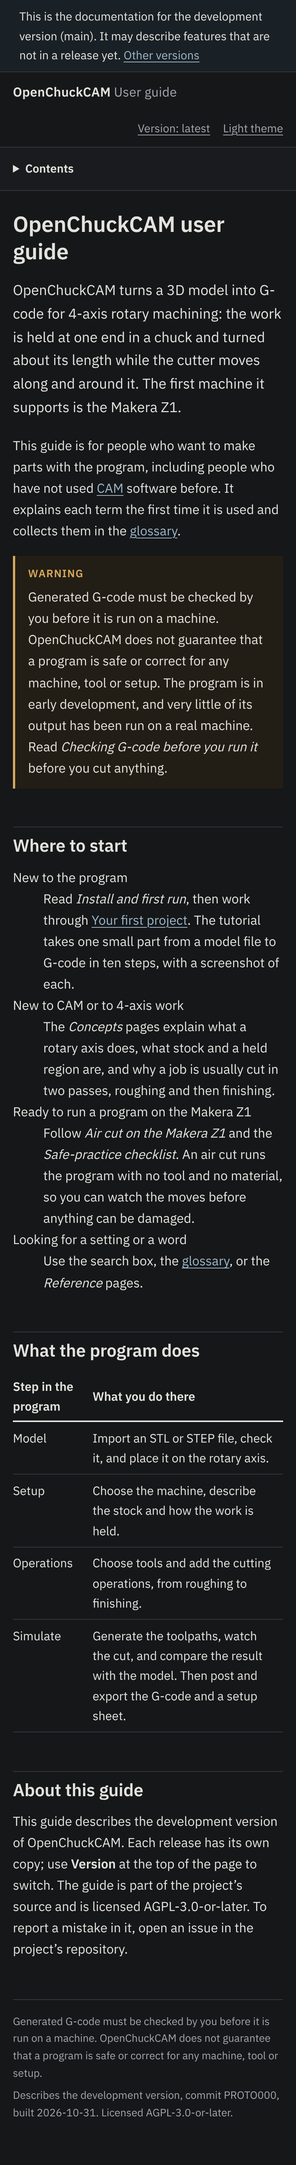
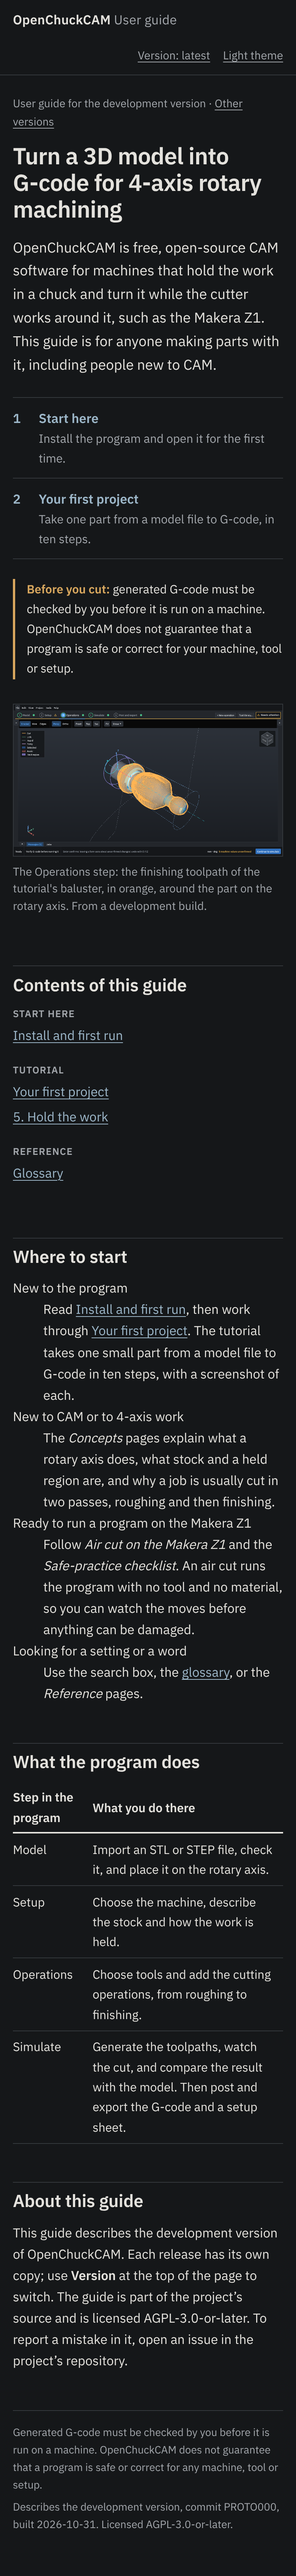
Lane DOCSITE: a proposed home page hero in both prototypes (throwaway, never merged)
Same design in each: version line, one plain headline, who the guide is for,
two routes as a ruled list, the G-code notice and a real screenshot of the
tutorial's baluster. mdBook: an HTML block and three template lines; Zola:
a dedicated landing template. Costs compared in proto/COMPARISON.md.

Claude-Session: https://claude.ai/code/session_017vEinzeL1soyBucF3aWsfy

Changed region(s): [[0.0308, 0.0, 0.9538, 0.9947], [0.7692, 0.4041, 0.8308, 0.4352], [0.6769, 0.4041, 0.7385, 0.4352]]

diff --git a/proto/shared/style.css b/proto/shared/style.css
@@ -240,3 +240,50 @@ blockquote.markdown-alert-note::before, blockquote.markdown-alert-warning::befor
 }
 blockquote.markdown-alert-warning::before { content: "Warning"; color: var(--warn); }
 blockquote.markdown-alert-note > :last-child, blockquote.markdown-alert-warning > :last-child { margin-bottom: 0; }
+
+/* ---------- Home page hero (both prototypes) ----------
+ * One plain statement, who it is for, two routes, the version, the G-code notice, and a real screenshot.
+ * No gradient, no buttons: the routes are a ruled list of links. */
+.hero { display: grid; grid-template-columns: minmax(0, 5fr) minmax(0, 7fr); gap: 2.5rem; align-items: start;
+  padding: 0 0 1rem; margin: 0 0 1.5rem; }
+.nowrap { white-space: nowrap; }
+.hero-text { min-width: 0; }
+.hero-meta { font-size: 0.85rem; color: var(--muted); margin: 0 0 0.9rem; }
+.hero-meta a { color: var(--muted); }
+.hero h1 { font-size: 2.35rem; line-height: 1.15; letter-spacing: -0.015em; margin: 0 0 1rem; border: 0; padding: 0; }
+.hero-lead { font-size: 1.1rem; margin: 0 0 1.6rem; }
+.routes { list-style: none; padding: 0 !important; margin: 0 0 1.5rem; border-top: 1px solid var(--rule); counter-reset: none; }
+.routes > li { border-bottom: 1px solid var(--rule); margin: 0 !important; padding: 0; }
+.routes > li::before { content: none !important; }
+.routes a { display: grid; grid-template-columns: 2rem 1fr; padding: 0.75rem 0; text-decoration: none; color: var(--text); }
+.routes a:hover .route-title { text-decoration: underline; }
+.route-num { font-weight: 600; color: var(--accent); font-variant-numeric: tabular-nums; }
+.route-title { font-weight: 600; color: var(--accent); }
+.route-text { grid-column: 2; color: var(--muted); font-size: 0.92rem; }
+.hero-notice { border-left: 3px solid var(--warn); padding: 0.1rem 0 0.1rem 0.9rem; font-size: 0.92rem; margin: 0; }
+.hero-notice strong { color: var(--warn); }
+.hero-figure { margin: 0.4rem 0 0; }
+.hero-figure img { width: 100%; }
+/* mdBook: the hero sits in the content column beside the contents, so the column widens on the home page. */
+.home .content > main { max-width: 74rem; }
+.home .content > main > #mdbook-content > :not(.hero) { max-width: var(--measure); }
+/* Zola: a landing page without the sidebar; the hero spans the page and the rest keeps the measure. */
+.landing { max-width: 76rem; margin: 0 auto; padding: 2.5rem 2.5rem 4rem; }
+.landing .body { max-width: var(--measure); }
+.landing .contents-overview { columns: 2 16rem; column-gap: 2.5rem; margin: 0 0 2rem; padding: 0; list-style: none; }
+.landing .contents-overview > li { break-inside: avoid; margin: 0 0 1.2rem; }
+.landing .contents-overview .nav-part { display: block; font-size: 0.75rem; font-weight: 600; letter-spacing: 0.06em;
+  text-transform: uppercase; color: var(--muted); margin-bottom: 0.25rem; }
+.landing .contents-overview ul { list-style: none; padding: 0; margin: 0; }
+@media (max-width: 1100px) {
+  .hero { grid-template-columns: 1fr; gap: 1.5rem; }
+  .hero-figure { order: 2; }
+}
+@media (max-width: 900px) {
+  .hero h1 { font-size: 1.8rem; }
+  .landing { padding: 1.5rem 1rem 3rem; }
+}
+@media print {
+  .hero { display: block; border: 0; }
+  .routes a { display: block; }
+}

diff --git a/proto/zola/templates/index.html b/proto/zola/templates/index.html
@@ -1,3 +1,47 @@
 {% extends "base.html" %}
-{% block content %}<h1>{{ section.title }}</h1>
-{{ section.content | safe }}{% endblock %}
+{#- The landing page: no sidebar; the hero spans the page, then a contents overview, then the page text.
+    The hero's words live in content/_index.md ([extra]), not here. -#}
+{% block banner %}{% endblock banner %}
+{% block layout %}
+<main id="content" class="landing">
+  <section class="hero" aria-labelledby="hero-title">
+    <div class="hero-text">
+      <p class="hero-meta">User guide for the development version · <a href="{{ get_url(path='versions.html') }}">Other versions</a></p>
+      <h1 id="hero-title">{{ section.extra.headline | safe }}</h1>
+      <p class="hero-lead">{{ section.extra.lead }}</p>
+      <ol class="routes">
+        {%- for r in section.extra.routes %}
+        <li><a href="{{ get_url(path=r.path) }}"><span class="route-num">{{ loop.index }}</span><span class="route-title">{{ r.title }}</span><span class="route-text">{{ r.text }}</span></a></li>
+        {%- endfor %}
+      </ol>
+      <p class="hero-notice"><strong>Before you cut:</strong> generated G-code must be checked by you before it is run on a machine. OpenChuckCAM does not guarantee that a program is safe or correct for your machine, tool or setup.</p>
+    </div>
+    <figure class="hero-figure">
+      <img src="{{ get_url(path=section.extra.hero_image) }}" width="1366" height="768" alt="{{ section.extra.hero_alt }}">
+      <figcaption>{{ section.extra.hero_caption }}</figcaption>
+    </figure>
+  </section>
+
+  <h2 class="visually-plain">Contents of this guide</h2>
+  <ul class="contents-overview">
+    {%- for s in section.subsections %}
+    {%- set sub = get_section(path=s) %}
+    <li><span class="nav-part">{{ sub.extra.part | default(value=sub.title) }}</span>
+      <ul>
+        {% if sub.title != sub.extra.part %}<li><a href="{{ sub.permalink }}">{{ sub.title }}</a></li>{% endif %}
+        {%- for p in sub.pages %}<li><a href="{{ p.permalink }}">{{ p.title }}</a></li>{% endfor %}
+      </ul>
+    </li>
+    {%- endfor %}
+    {%- for p in section.pages %}
+    <li><span class="nav-part">{{ p.extra.part | default(value="More") }}</span><ul><li><a href="{{ p.permalink }}">{{ p.title }}</a></li></ul></li>
+    {%- endfor %}
+  </ul>
+
+  <div class="body">{{ section.content | safe }}</div>
+  <footer class="site-footer">
+    <p>Generated G-code must be checked by you before it is run on a machine. OpenChuckCAM does not guarantee that a program is safe or correct for any machine, tool or setup.</p>
+    <p>Describes the development version, commit PROTO000, built 2026-10-31. Licensed AGPL-3.0-or-later.</p>
+  </footer>
+</main>
+{% endblock layout %}

diff --git a/proto/zola/templates/base.html b/proto/zola/templates/base.html
@@ -16,7 +16,7 @@
 </head>
 <body>
   <a class="skip" href="#content">Skip to the content</a>
-  <div class="banner" role="note">This is the documentation for the development version (main). It may describe features that are not in a release yet. <a href="{{ get_url(path='versions.html') }}">Other versions</a></div>
+  {% block banner %}<div class="banner" role="note">This is the documentation for the development version (main). It may describe features that are not in a release yet. <a href="{{ get_url(path='versions.html') }}">Other versions</a></div>{% endblock banner %}
   <header class="site-header">
     <a class="site-title" href="{{ get_url(path='@/_index.md') }}">OpenChuckCAM <span>User guide</span></a>
     <div class="tools">
@@ -24,6 +24,7 @@
       <button class="theme-toggle" type="button" hidden>Dark theme</button>
     </div>
   </header>
+  {% block layout %}
   <div class="layout">
     <nav class="sidebar" aria-label="Contents">
       <details open>
@@ -67,8 +68,9 @@
       </footer>
     </div>
   </div>
+  {% endblock layout %}
   <script>
-    if (matchMedia('(max-width: 900px)').matches) document.querySelector('.sidebar details').open = false;
+    var d = document.querySelector('.sidebar details'); if (d && matchMedia('(max-width: 900px)').matches) d.open = false;
     (function () {
       var b = document.querySelector('.theme-toggle'), root = document.documentElement;
       function dark() { return root.dataset.theme ? root.dataset.theme === 'dark' : matchMedia('(prefers-color-scheme: dark)').matches; }

diff --git a/proto/COMPARISON.md b/proto/COMPARISON.md
@@ -33,10 +33,31 @@ Zola 0.23.0 (5 August 2026) moved to a new major version of its template languag
 
 | | mdBook | Zola |
 | --- | --- | --- |
-| Stylesheet (shared) | 242 lines | the same file |
-| Page templates | `theme/index.hbs`, 101 lines (replaces mdBook's 367-line default) | 6 templates, 115 lines in all |
+| Stylesheet (shared) | 289 lines, of which 46 are the home page hero | the same file |
+| Page templates | `theme/index.hbs`, 101 lines (replaces mdBook's 367-line default) | 6 templates, 161 lines in all (115 before the landing page) |
 | Extra code we keep | `fixnav.py`, 38 lines: mdBook writes the contents list with links relative to the site root and marks no current page (its own theme fixes this in JavaScript), so this post-build step makes it work without JavaScript. Search reuses mdBook's own script, adapted in 6 lines. | `static-search.js`, 18 lines: Zola builds the search index but gives no search box (a full one, with highlighting, would be about 80 lines). The elasticlunr script must be supplied; here it is copied from mdBook's output. |
 | Default files we cannot switch off | mdBook still writes its own `book.js`, highlight and theme files, unused (about 0.2 MB). Harmless. | Zola writes `robots.txt` and `sitemap.xml` (wanted anyway). |
+
+## The home page hero (added at the owner's request)
+
+The owner asked for a proposed hero section on the home page in each tool, with the same design intent. Both are built and in `screenshots/` (`*-home-*`).
+
+**Design.** A two-column band at desktop width, stacked on a phone:
+- left: a small line naming the guide's version, with a link to the other versions (the version switch); one plain headline; one paragraph saying what the program is and who the guide is for; two routes, *Start here* and *Your first project*, as a ruled, numbered list of links (not buttons); the G-code notice (NFR-12), set quietly with an ochre rule and the label "Before you cut";
+- right: a real screenshot of the application, the finishing toolpath of the tutorial's baluster (lane DOCSUSER's `hero-1-toolpaths.png`), with a caption saying it is from a development build.
+
+No gradient, no buttons, no icons, no feature cards, no marketing words. The same CSS serves both tools (46 lines added to the shared stylesheet).
+
+| | mdBook | Zola |
+| --- | --- | --- |
+| How it is done | The hero is a block of HTML at the top of `src/index.md` (16 lines). mdBook does not parse Markdown inside it, so the hero's words are HTML in the Markdown file. Template change: 3 lines in `index.hbs` (a `home` class on the body when `is_index`, and no development banner on the home page, since the hero names the version). | A dedicated landing template, `templates/index.html` (47 lines). The hero's words live in the front matter of `content/_index.md` (`[extra]`: headline, lead, routes, image, alt text, caption), so the template holds layout only. |
+| Page around it | The usual page: the contents sidebar stays on the left, so the hero shares the width with it. | A page of its own: no sidebar, the hero spans the page, and a "Contents of this guide" overview built from the sections replaces the sidebar. |
+| What was hacked | Nothing that fights mdBook: `is_index` is a variable mdBook gives every template. The cost is that the hero is HTML inside a Markdown file, and the home page cannot drop the sidebar without more template branching. | Nothing: this is what Zola's section templates are for. |
+| On GitHub | The HTML block renders on GitHub as plain text and a picture: readable. | The front matter shows as a table of values; the hero itself is only in the built site. |
+| Survives a major upgrade? | The HTML block in the Markdown survives anything. The 3 template lines depend on `is_index` and on our own `index.hbs`; if mdBook renames the variable, the hero still shows, only the wider column and the hidden banner are lost until the line is fixed. | The landing template uses Zola's template language, which changed completely in 0.23 (shortcodes removed, Tera 2). Another such change would mean rewriting it. |
+| Extra upkeep | Low: one HTML block and three template lines. | Moderate: a 47-line template, plus the contents overview's logic. |
+
+**Honest summary.** Zola gives the better home page: a true landing layout without the sidebar, with the hero's words kept as data. mdBook gets close with very little code, at the cost of the sidebar beside the hero and the hero being HTML inside the Markdown. Neither hero is a reason on its own to choose the tool; the maintenance points above still favour mdBook. If the owner prefers the full-width landing, mdBook can get it too: a separate static `index.html` built from a small template outside mdBook, about 60 lines, at the cost of a second build step.
 
 ## Print
 

diff --git a/proto/mdbook/src/index.md b/proto/mdbook/src/index.md
@@ -1,11 +1,19 @@
-# OpenChuckCAM user guide
-
-OpenChuckCAM turns a 3D model into G-code for 4-axis rotary machining: the work is held at one end in a chuck and turned about its length while the cutter moves along and around it. The first machine it supports is the Makera Z1.
-
-This guide is for people who want to make parts with the program, including people who have not used [CAM](glossary.md#cam) software before. It explains each term the first time it is used and collects them in the [glossary](glossary.md).
-
-> [!WARNING]
-> Generated G-code must be checked by you before it is run on a machine. OpenChuckCAM does not guarantee that a program is safe or correct for any machine, tool or setup. The program is in early development, and very little of its output has been run on a real machine. Read *Checking G-code before you run it* before you cut anything.
+<section class="hero" aria-labelledby="hero-title">
+<div class="hero-text">
+<p class="hero-meta">User guide for the development version · <a href="versions.html">Other versions</a></p>
+<h1 id="hero-title">Turn a 3D model into <span class="nowrap">G-code</span> for 4-axis rotary machining</h1>
+<p class="hero-lead">OpenChuckCAM is free, open-source CAM software for machines that hold the work in a chuck and turn it while the cutter works around it, such as the Makera Z1. This guide is for anyone making parts with it, including people new to CAM.</p>
+<ol class="routes">
+<li><a href="start/install.md"><span class="route-num">1</span><span class="route-title">Start here</span><span class="route-text">Install the program and open it for the first time.</span></a></li>
+<li><a href="tutorial/index.md"><span class="route-num">2</span><span class="route-title">Your first project</span><span class="route-text">Take one part from a model file to G-code, in ten steps.</span></a></li>
+</ol>
+<p class="hero-notice"><strong>Before you cut:</strong> generated G-code must be checked by you before it is run on a machine. OpenChuckCAM does not guarantee that a program is safe or correct for your machine, tool or setup.</p>
+</div>
+<figure class="hero-figure">
+<img src="images/hero-1-toolpaths.png" width="1366" height="768" alt="The OpenChuckCAM window on its Operations step. A turned baluster lies along the rotary axis, wrapped in the orange lines of its finishing toolpath, with dotted rapid moves and the held region at the chuck end.">
+<figcaption>The Operations step: the finishing toolpath of the tutorial's baluster, in orange, around the part on the rotary axis. From a development build.</figcaption>
+</figure>
+</section>
 
 ## Where to start
 

diff --git a/proto/zola/content/_index.md b/proto/zola/content/_index.md
@@ -1,19 +1,23 @@
 +++
 title = "OpenChuckCAM user guide"
 sort_by = "weight"
+
+[extra]
+headline = "Turn a 3D model into <span class=\"nowrap\">G-code</span> for 4-axis rotary machining"
+lead = "OpenChuckCAM is free, open-source CAM software for machines that hold the work in a chuck and turn it while the cutter works around it, such as the Makera Z1. This guide is for anyone making parts with it, including people new to CAM."
+hero_image = "images/hero-1-toolpaths.png"
+hero_alt = "The OpenChuckCAM window on its Operations step. A turned baluster lies along the rotary axis, wrapped in the orange lines of its finishing toolpath, with dotted rapid moves and the held region at the chuck end."
+hero_caption = "The Operations step: the finishing toolpath of the tutorial's baluster, in orange, around the part on the rotary axis. From a development build."
+routes = [
+  { title = "Start here", text = "Install the program and open it for the first time.", path = "@/start/install.md" },
+  { title = "Your first project", text = "Take one part from a model file to G-code, in ten steps.", path = "@/tutorial/_index.md" },
+]
 +++
-
-OpenChuckCAM turns a 3D model into G-code for 4-axis rotary machining: the work is held at one end in a chuck and turned about its length while the cutter moves along and around it. The first machine it supports is the Makera Z1.
-
-This guide is for people who want to make parts with the program, including people who have not used [CAM](@/glossary.md#cam) software before. It explains each term the first time it is used and collects them in the [glossary](@/glossary.md).
-
-> [!WARNING]
-> Generated G-code must be checked by you before it is run on a machine. OpenChuckCAM does not guarantee that a program is safe or correct for any machine, tool or setup. The program is in early development, and very little of its output has been run on a real machine. Read *Checking G-code before you run it* before you cut anything.
 
 ## Where to start
 
 New to the program
-: Read *Install and first run*, then work through [Your first project](@/tutorial/_index.md). The tutorial takes one small part from a model file to G-code in ten steps, with a screenshot of each.
+: Read [Install and first run](@/start/install.md), then work through [Your first project](@/tutorial/_index.md). The tutorial takes one small part from a model file to G-code in ten steps, with a screenshot of each.
 
 New to CAM or to 4-axis work
 : The *Concepts* pages explain what a rotary axis does, what stock and a held region are, and why a job is usually cut in two passes, roughing and then finishing.

diff --git a/proto/zola/content/start/install.md b/proto/zola/content/start/install.md
@@ -1,0 +1,6 @@
++++
+title = "Install and first run"
+weight = 1
++++
+
+This page is not written yet. It will cover where to download OpenChuckCAM, what each download holds, what your computer needs, and what you see when the program opens for the first time.

diff --git a/proto/mdbook/src/start/install.md b/proto/mdbook/src/start/install.md
@@ -1,0 +1,3 @@
+# Install and first run
+
+This page is not written yet. It will cover where to download OpenChuckCAM, what each download holds, what your computer needs, and what you see when the program opens for the first time.

diff --git a/proto/zola/content/start/_index.md b/proto/zola/content/start/_index.md
@@ -1,0 +1,9 @@
++++
+title = "Start here"
+weight = 10
+sort_by = "weight"
+[extra]
+part = "Start here"
++++
+
+Getting the program and opening it for the first time.

diff --git a/proto/mdbook/src/SUMMARY.md b/proto/mdbook/src/SUMMARY.md
@@ -4,7 +4,7 @@
 
 # Start here
 
-- [Install and first run]()
+- [Install and first run](start/install.md)
 - [Known limitations]()
 
 # Tutorial
